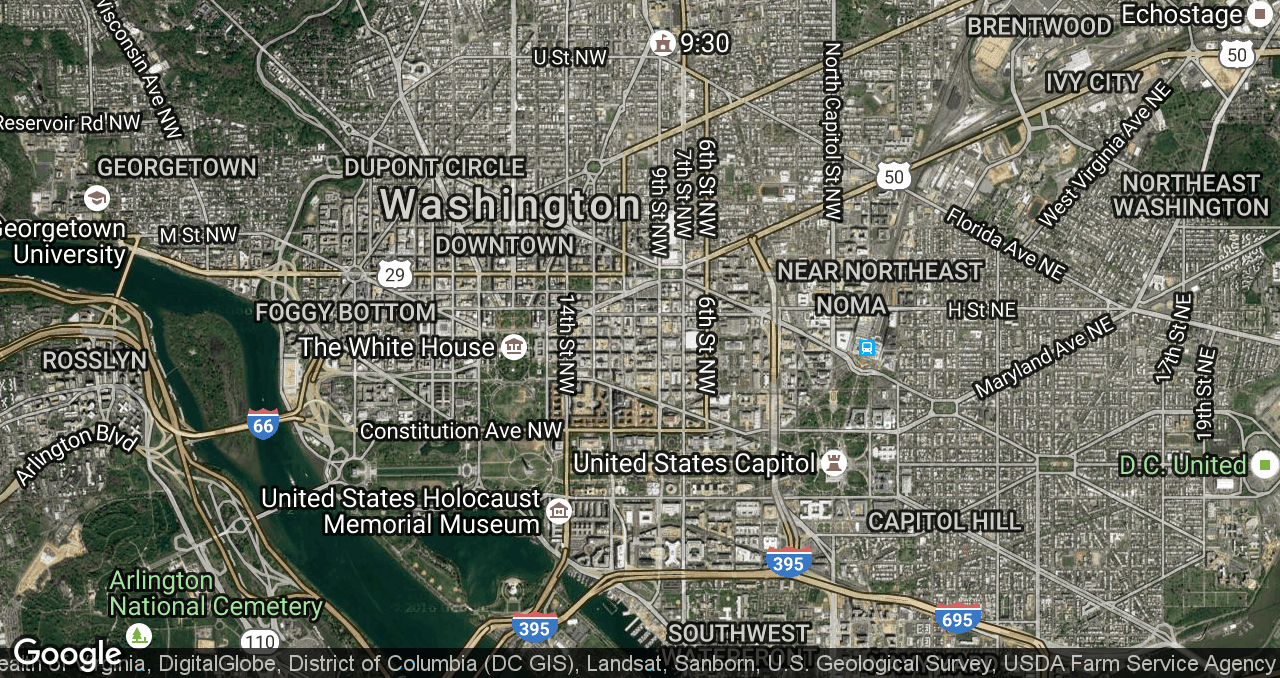
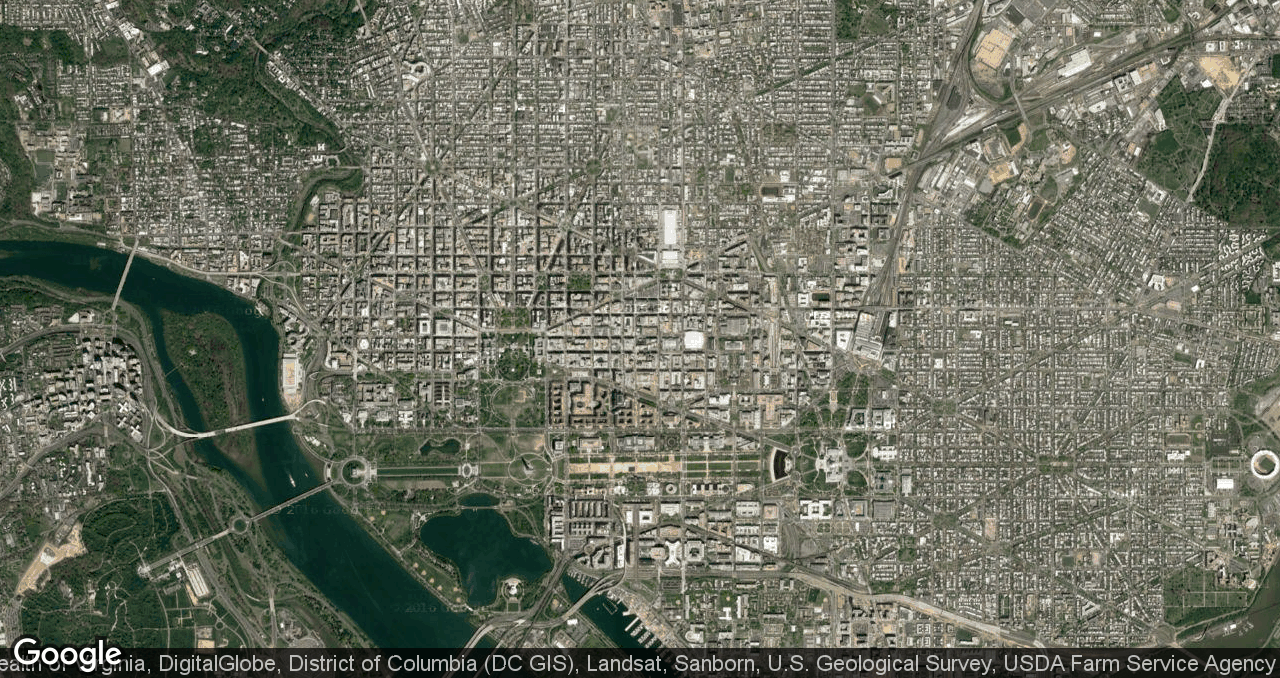
commit before re-org

diff --git a/src/trafficSimulator/AnimatedMap.py b/src/trafficSimulator/AnimatedMap.py
@@ -10,7 +10,9 @@ from DrawUtil import GPS_DIST_UNIT
 from GoogleMap import getBackgroundMap
 
 
-CAR_LEN_MULTI = 20
+CAR_LEN_MULTI = 18000
+
+colors = {"myYellow": (1, 1, 0.3)}
 
 # def convertGeoUnit(lat, lng, latBase, lngBase, gpsW, gpsH, imageH, imageW):
 #     """
@@ -73,6 +75,8 @@ class AnimatedMap(threading.Thread):
         self.imageW = None
         self.imageH = None
 
+        self.MAP_DIST_UNIT = None
+
     def latToPixel(self, lat):
         return (lat - self.maxLat) / self.gpsH * self.imageH
 
@@ -124,7 +128,7 @@ class AnimatedMap(threading.Thread):
             # ratio = 0.8
             # size = width * ratio, height * ratio
             # baseImg.thumbnail(size, Image.ANTIALIAS)
-            marginH = 85
+            marginH = 137
             extraH = 0
             extraW = int(extraH * width / height)
             marginW = int(marginH * width / height)
@@ -135,7 +139,7 @@ class AnimatedMap(threading.Thread):
                    .save(resizedMapName, "png")
 
             img = plt.imread(resizedMapName)
-            # plt.imshow(img)
+            plt.imshow(img, zorder=0)
 
             # get image size
             self.imageW, self.imageH = Image.open(resizedMapName).size
@@ -147,23 +151,23 @@ class AnimatedMap(threading.Thread):
 
             # plot roads
             for i in range(len(allLngs)):
-                plt.plot(allLngs[i], allLats[i], color='b', alpha=0.8)
+                plt.plot(allLngs[i], allLats[i], color='w', alpha=0.7)
 
             # create rectangle patches for cars and taxis
             for car in self.cars.values() + self.taxis.values():
                 center = car.getCoords()
                 newCenter = (self.lngToPixel(center[0]), self.latToPixel(center[1]))
-                patch = patches.Rectangle(newCenter, 0, 0,  alpha=0.8)
+                patch = patches.Rectangle(newCenter, 0, 0,  alpha=1.0)
                 self.carPatch[car.id] = patch
                 ax.add_patch(patch)
 
             # plot cars
-            self.rightLaneCarPoints, = ax.plot([], [], 'bo', ms=4)
-            self.leftLaneCarPoints,  = ax.plot([], [], 'ro', ms=4)
+            self.rightLaneCarPoints, = ax.plot([], [], 'bo', ms=4, zorder=1)
+            self.leftLaneCarPoints,  = ax.plot([], [], 'ro', ms=4, zorder=1)
 
             # plot taxis
-            self.taxiPoints, = ax.plot([], [], 'yo', ms=4)
-            self.calledTaxiPoints, = ax.plot([], [], 'ro', ms=4)
+            self.taxiPoints, = ax.plot([], [], color=colors["myYellow"], ms=4, zorder=1)
+            self.calledTaxiPoints, = ax.plot([], [], color=colors["myYellow"], ms=4, zorder=1)
 
             # plot goal location
             # goalLng, goalLat = self.realMap.getGoalPosition()
@@ -227,7 +231,7 @@ class AnimatedMap(threading.Thread):
                 else:
                     coords = car.getCoords()
                     newCoords = (self.lngToPixel(coords[0]), self.latToPixel(coords[1]))
-                    patch = patches.Rectangle(newCoords, 0, 0, alpha=0.8)
+                    patch = patches.Rectangle(newCoords, 0, 0, alpha=1.0)
                     self.carPatch[car.id] = patch
                 center = car.getCoords()
                 newCenter = (self.lngToPixel(center[0]), self.latToPixel(center[1]))
@@ -236,13 +240,13 @@ class AnimatedMap(threading.Thread):
                 setRectangle(ax,
                              patch,
                              newCenter,
-                             CAR_LEN_MULTI * car.length / GPS_DIST_UNIT,
-                             CAR_LEN_MULTI * car.width / GPS_DIST_UNIT,
+                             CAR_LEN_MULTI * car.length / GPS_DIST_UNIT * self.gpsH * self.imageH,
+                             CAR_LEN_MULTI * car.width / GPS_DIST_UNIT * self.gpsH * self.imageH,
                              newHead)
                 ax.add_patch(patch)
 
                 if car.isTaxi:
-                    patch.set_color("y")
+                    patch.set_color(colors["myYellow"])
                 else:
                     if car.isOnRightLane():
                         patch.set_color("r")

diff --git a/src/main.py b/src/main.py
@@ -36,8 +36,8 @@ if __name__ == '__main__':
     realMap = RealMap(SHAPEFILE, mapSize)
     env = Environment(realMap)
     # exp = Experiment(env, TAXI_NUM, CAR_NUM, epsilon=EPSILON, alpha=ALPHA, gamma=GAMMA)
-    initCarNum = 10
-    initTaxiNum = 10
+    initCarNum = 100
+    initTaxiNum = 50
     trafficCtrl = TrafficController(env, initCarNum, initTaxiNum)
 
     # For debugging usage. If debugging mode is turned on, then it will not
@@ -53,7 +53,7 @@ if __name__ == '__main__':
     fig, ax = plt.subplots(figsize=(14, 4))
 
     fig.set_dpi(85)  # adjust the subplot size
-    ax.set_aspect(1.0)
+    ax.set_aspect(2.0)
     aniMap = AnimatedMap(realMap, env)
     aniMap.plotAnimatedMap(fig, ax)
 

diff --git a/src/trafficSimulator/GoogleMap.py b/src/trafficSimulator/GoogleMap.py
@@ -100,7 +100,7 @@ def genGoogleMapAPIParameter(lat, lng, hwRatio):
     parameters["scale"] = "2"
 
     # map type: roadmap / satellite / terrain / hybrid
-    parameters["maptype"] = "hybrid"
+    parameters["maptype"] = "satellite"
 
     return parameters
 

diff --git a/src/trafficSimulator/Lane.py b/src/trafficSimulator/Lane.py
@@ -5,7 +5,7 @@ from DrawUtil import GPS_DIST_UNIT
 from TrafficSettings import MAX_SPEED
 from Coordinate import Coordinate
 
-LANE_WIDTH = 0.020 / GPS_DIST_UNIT  # km -> geo unit
+LANE_WIDTH = 0.020 / GPS_DIST_UNIT # km -> geo unit
 
 
 class Lane(object):

diff --git a/src/trafficSimulator/TrafficSettings.py b/src/trafficSimulator/TrafficSettings.py
@@ -46,5 +46,7 @@ CAR_LENGTH = 0.0045
 CAR_WIDTH = 0.0015
 """The width (in km) of a car"""
 
-POI_LAMBDA = 0.0000
+POI_LAMBDA = 0.00005
 """lambda parameter for poisson arrival for the new car comes into the map"""
+
+

diff --git a/src/trafficSimulator/DrawUtil.py b/src/trafficSimulator/DrawUtil.py
@@ -88,3 +88,4 @@ def getDegree(ptr1, ptr2):
 p1 = Coordinate(0.0, 1.0)
 p2 = Coordinate(0.0, 0.0)
 GPS_DIST_UNIT = haversine(p1, p2)
+print "GPS_DIST_UNIT:", GPS_DIST_UNIT
